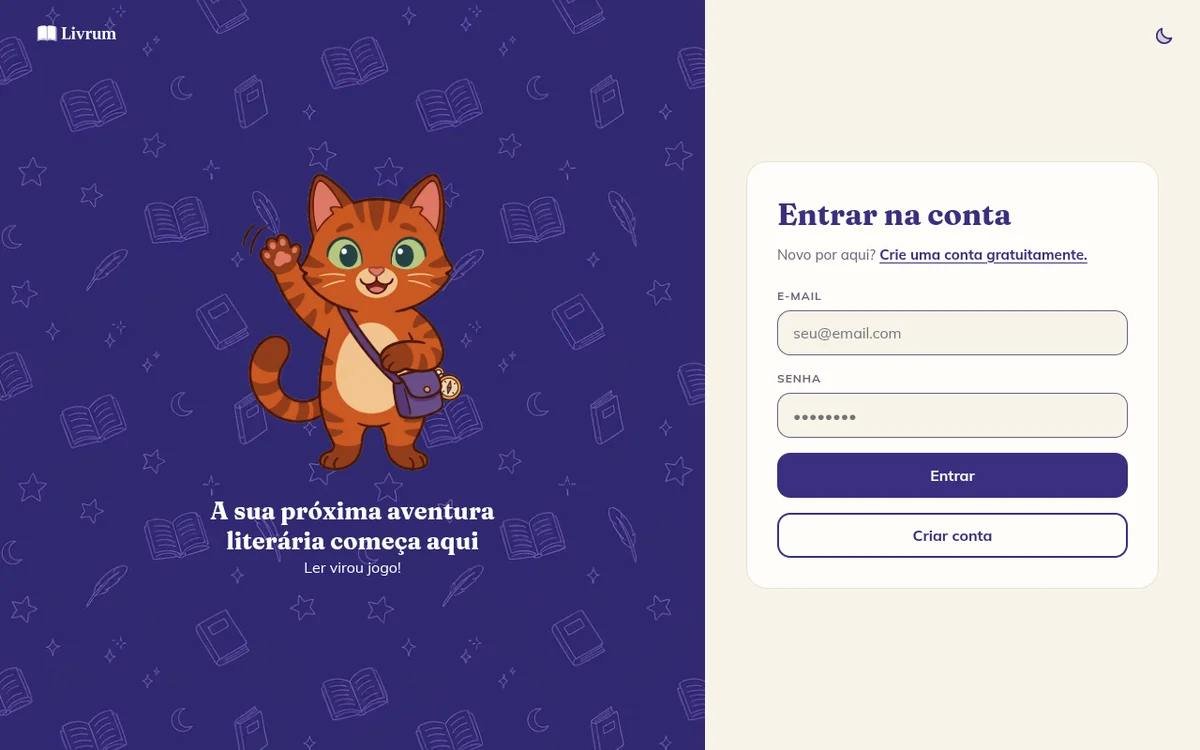
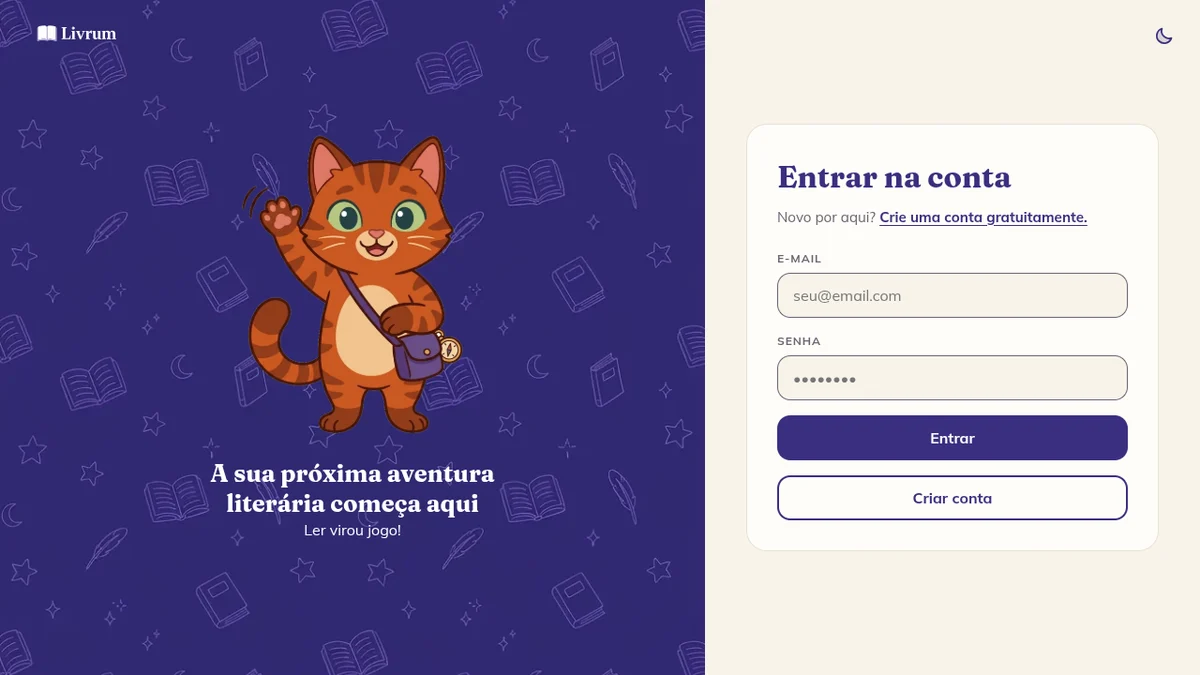
feat: remove arrows, link-only contact labels, three equal project cards

diff --git a/src/styles/global.css b/src/styles/global.css
@@ -167,10 +167,10 @@ h2 { font-size: clamp(30px, 4.2vw, 46px); letter-spacing: -.025em; line-height: 
 .sub { color: var(--muted); max-width: 620px; margin-bottom: 44px; font-size: 17px; }
 
 /* projetos */
-.projects { display: grid; grid-template-columns: 1.35fr 1fr; gap: 20px; }
+.projects { display: grid; grid-template-columns: repeat(3, 1fr); gap: 20px; }
 .pcard { padding: 14px; display: flex; flex-direction: column; }
-.pcard .shot { border-radius: 12px; overflow: hidden; border: 1px solid var(--line); background: #0a0818; aspect-ratio: 16 / 10; position: relative; }
-.pcard .shot img { width: 100%; height: 100%; object-fit: cover; object-position: top; display: block; transition: transform .5s; }
+.pcard .shot { border-radius: 12px; overflow: hidden; border: 1px solid var(--line); background: #0a0818; aspect-ratio: 16 / 9; position: relative; }
+.pcard .shot img { position: absolute; inset: 0; width: 100%; height: 100%; object-fit: contain; object-position: center; display: block; z-index: 1; transition: transform .5s; }
 .pcard:hover .shot img { transform: scale(1.04); }
 .pcard .body { padding: 16px 6px 6px; display: flex; flex-direction: column; gap: 10px; flex: 1; }
 .pcard h3 { font-size: 22px; display: flex; align-items: center; gap: 10px; flex-wrap: wrap; }
@@ -178,21 +178,17 @@ h2 { font-size: clamp(30px, 4.2vw, 46px); letter-spacing: -.025em; line-height: 
 .pcard p { color: var(--muted); font-size: 15px; }
 .pcard .acts { margin-top: auto; display: flex; flex-wrap: wrap; gap: 10px; padding-top: 6px; }
 .pcard .btn { padding: 10px 18px; font-size: 14px; }
-.big { grid-row: span 2; }
-.big .shot { aspect-ratio: auto; flex: 1; min-height: 300px; }
-.big .shot img { position: absolute; inset: 0; }
-.big .body { flex: 0 0 auto; }
 .pcard .shot-fallback {
   position: absolute; inset: 0; display: flex; align-items: center; justify-content: center;
   background: linear-gradient(135deg, #2a1458, #0d0a1f 60%, #4a1269); font-weight: 800; font-size: 26px; letter-spacing: .02em;
 }
 .note-sm { font-size: 13px; color: var(--dim); border-left: 2px solid var(--violet); padding-left: 10px; }
 
+@media (max-width: 900px) {
+  .projects { grid-template-columns: 1fr; }
+}
 @media (max-width: 860px) {
   section { padding: 70px 0; }
-  .projects { grid-template-columns: 1fr; }
-  .big { grid-row: auto; }
-  .big .shot { aspect-ratio: 16 / 10; flex: none; min-height: 0; }
 }
 
 /* sobre */
@@ -233,8 +229,11 @@ footer { padding: 36px 0 44px; color: var(--dim); font-size: 14px; text-align: c
 .trail { position: fixed; inset: 0; pointer-events: none; z-index: 50; }
 @media (prefers-reduced-motion: reduce) { .rv { opacity: 1; transform: none; transition: none; } }
 
-/* imagem inteira com fundo desfocado atrás (destaque) */
-.big .shot::before {
+
+/* imagem de cada projeto: inteira, centralizada, sobre uma cópia desfocada dela mesma */
+.pcard .shot::before {
   content: ""; position: absolute; inset: -20px; background: var(--shot) center / cover; filter: blur(22px) saturate(1.2); opacity: .55;
 }
-.big .shot img { object-fit: contain; object-position: center; z-index: 1; }
+
+/* selo sobre a imagem, igual em todos os cards */
+.shot-badge { position: absolute; top: 10px; left: 10px; z-index: 2; background: rgba(13,10,31,.88); backdrop-filter: blur(6px); }

diff --git a/src/data/content.ts b/src/data/content.ts
@@ -38,8 +38,8 @@ export const links = {
 };
 
 export const contactLabels = {
-  whatsapp: 'WhatsApp (48) 98455-5696',
-  instagram: 'Instagram @bombazaro.sites',
+  whatsapp: 'WhatsApp',
+  instagram: 'Instagram',
 };
 
 export const heroChips = ['React', 'TypeScript', 'Java', 'Spring Boot', 'SQL'];
@@ -55,7 +55,7 @@ export const projects: Project[] = [
     stack: ['React', 'TypeScript', 'Sanity', 'Netlify'],
     image: { src: '/projetos/padaria.webp', alt: "Página inicial do site da Padaria Bombazaro's" },
     actions: [
-      { label: 'Ver site ↗', href: 'https://padariabombazaros.netlify.app', variant: 'main' },
+      { label: 'Ver site', href: 'https://padariabombazaros.netlify.app', variant: 'main' },
       { label: 'Código', href: 'https://github.com/bombazaro/padaria-bombazaros', variant: 'ghost' },
     ],
   },
@@ -65,9 +65,9 @@ export const projects: Project[] = [
     summary:
       'App de contas a pagar que calcula sozinho o que falta pagar e quanto sobra do mês. Funciona 100% offline.',
     stack: ['Expo', 'TypeScript', 'SQLite'],
-    image: { src: '/projetos/fluxus-contas.webp', alt: 'Tela de contas do app Fluxus no modo escuro' },
+    image: { src: '/projetos/fluxus.webp', alt: 'Telas Início e Contas do app Fluxus no modo escuro' },
     actions: [
-      { label: 'Abrir na web ↗', href: 'https://fluxus-financas.netlify.app', variant: 'main' },
+      { label: 'Abrir na web', href: 'https://fluxus-financas.netlify.app', variant: 'main' },
       { label: 'Baixar APK', href: 'https://github.com/bombazaro/fluxus/releases/latest', variant: 'ghost' },
       { label: 'Código', href: 'https://github.com/bombazaro/fluxus', variant: 'ghost' },
     ],
@@ -82,7 +82,7 @@ export const projects: Project[] = [
     stack: ['React', 'Java', 'Python'],
     image: { src: '/projetos/livrum.webp', alt: 'Tela de entrada do Livrum, com o gato mascote e o texto "A sua próxima aventura literária começa aqui"' },
     actions: [
-      { label: 'Ver site ↗', href: 'https://livrum-ifsc1.vercel.app', variant: 'main' },
+      { label: 'Ver site', href: 'https://livrum-ifsc1.vercel.app', variant: 'main' },
       { label: 'Código', href: 'https://github.com/anthyer/livrum', variant: 'ghost' },
     ],
   },

diff --git a/src/components/Projects.test.tsx b/src/components/Projects.test.tsx
@@ -14,18 +14,18 @@ test('renders_three_project_cards_in_order', () => {
   expect(screen.getAllByRole('article')).toHaveLength(3);
 });
 
-test('padaria_card_is_featured_and_has_ver_site_and_codigo', () => {
+test('padaria_card_has_destaque_badge_ver_site_and_codigo', () => {
   render(<Projects />);
   const padaria = card(/Padaria/);
-  expect(padaria).toHaveClass('big');
-  expect(within(padaria).getByRole('link', { name: /Ver site/ })).toHaveAttribute('href', 'https://padariabombazaros.netlify.app');
+  expect(within(padaria).getByText('em destaque')).toBeInTheDocument();
+  expect(within(padaria).getByRole('link', { name: 'Ver site' })).toHaveAttribute('href', 'https://padariabombazaros.netlify.app');
   expect(within(padaria).getByRole('link', { name: 'Código' })).toHaveAttribute('href', 'https://github.com/bombazaro/padaria-bombazaros');
 });
 
 test('fluxus_card_has_three_actions_web_apk_code', () => {
   render(<Projects />);
   const links = within(card('Fluxus')).getAllByRole('link');
-  expect(links.map((l) => l.textContent)).toEqual(['Abrir na web ↗', 'Baixar APK', 'Código']);
+  expect(links.map((l) => l.textContent)).toEqual(['Abrir na web', 'Baixar APK', 'Código']);
 });
 
 test('livrum_card_shows_em_equipe_badge_and_honest_note', () => {
@@ -83,4 +83,16 @@ test('shot_exposes_its_image_as_css_variable_for_the_blurred_backdrop', () => {
   const shot = card(/Padaria/).querySelector('.shot') as HTMLElement;
   expect(shot.getAttribute('style')).toContain('--shot');
   expect(shot.getAttribute('style')).toContain('/projetos/padaria.webp');
+});
+
+test('three_equal_cards_side_by_side_no_featured_layout', () => {
+  const { container } = render(<Projects />);
+  expect(container.querySelector('.big')).toBeNull();
+  const grid = container.querySelector('.projects') as HTMLElement;
+  expect(grid.querySelectorAll('article.pcard')).toHaveLength(3);
+});
+
+test('every_card_has_an_image_frame_with_the_same_class', () => {
+  const { container } = render(<Projects />);
+  expect(container.querySelectorAll('.pcard .shot')).toHaveLength(3);
 });

diff --git a/src/components/ProjectCard.tsx b/src/components/ProjectCard.tsx
@@ -5,17 +5,17 @@ import Chip from './Chip';
 
 export default function ProjectCard({ project }: { project: Project }) {
   const [imageFailed, setImageFailed] = useState(false);
-  const { title, badge, summary, note, stack, image, actions, featured } = project;
+  const { title, badge, summary, note, stack, image, actions } = project;
 
   return (
-    <article className={`glow pcard${featured ? ' big' : ''}`}>
+    <article className="glow pcard">
       <div className="shot" style={image ? ({ '--shot': `url(${image.src})` } as CSSProperties) : undefined}>
         {image && !imageFailed ? (
           <img
             src={image.src}
             alt={image.alt}
             width={1200}
-            height={750}
+            height={675}
             loading="lazy"
             onError={() => setImageFailed(true)}
           />
@@ -24,12 +24,10 @@ export default function ProjectCard({ project }: { project: Project }) {
             {title}
           </div>
         )}
+        {badge && <span className="pill shot-badge">{badge}</span>}
       </div>
       <div className="body">
-        <h3>
-          {title}
-          {badge && <span className="pill">{badge}</span>}
-        </h3>
+        <h3>{title}</h3>
         <p>{summary}</p>
         {note && <div className="note-sm">{note}</div>}
         <div className="chips">

diff --git a/src/App.a11y.test.tsx b/src/App.a11y.test.tsx
@@ -3,7 +3,7 @@ import { axe } from 'vitest-axe';
 import * as matchers from 'vitest-axe/matchers';
 import App from './App';
 import { clearMedia, mockMedia } from './test/media';
-import { DASHES } from './test/dashes';
+import { ARROWS, DASHES } from './test/dashes';
 
 expect.extend(matchers);
 
@@ -48,4 +48,14 @@ test('skip_link_is_the_first_focusable_element', () => {
 test('whole_page_has_no_dash_characters', () => {
   const { container } = render(<App />);
   expect(container.textContent).not.toMatch(DASHES);
+});
+
+test('whole_page_has_no_arrow_characters', () => {
+  const { container } = render(<App />);
+  expect(container.textContent).not.toMatch(ARROWS);
+});
+
+test('page_never_shows_the_phone_number_or_instagram_handle_as_text', () => {
+  const { container } = render(<App />);
+  expect(container.textContent).not.toMatch(/98455|984555696|\(48\)|bombazaro\.sites|@bombazaro/i);
 });

diff --git a/src/data/content.test.ts b/src/data/content.test.ts
@@ -1,5 +1,5 @@
 import { contactLabels, heroChips, links, marqueeItems, projects, site, techGroups, timeline } from './content';
-import { DASHES } from '../test/dashes';
+import { ARROWS, DASHES } from '../test/dashes';
 
 const everything = { site, links, contactLabels, projects, timeline, techGroups, marqueeItems, heroChips };
 
@@ -71,4 +71,12 @@ test('timeline_has_three_entries_in_order_and_skips_apae', () => {
 
 test('tech_groups_are_the_four_expected', () => {
   expect(techGroups.map((g) => g.title)).toEqual(['Programação', 'Banco de dados', 'Ferramentas', 'Pessoal']);
+});
+
+test('no_arrow_characters_in_any_label_or_text', () => {
+  expect(JSON.stringify(everything)).not.toMatch(ARROWS);
+});
+
+test('contact_labels_are_plain_names_without_number_or_handle', () => {
+  expect(contactLabels).toEqual({ whatsapp: 'WhatsApp', instagram: 'Instagram' });
 });

diff --git a/src/components/Contact.test.tsx b/src/components/Contact.test.tsx
@@ -15,15 +15,15 @@ test('contact_has_six_links_with_exact_hrefs', () => {
   ]);
 });
 
-test('whatsapp_is_primary_button_and_shows_formatted_number', () => {
+test('whatsapp_is_primary_button_and_hides_the_number_in_the_label', () => {
   render(<Contact />);
-  const wa = screen.getByRole('link', { name: 'WhatsApp (48) 98455-5696' });
+  const wa = screen.getByRole('link', { name: 'WhatsApp' });
   expect(wa).toHaveClass('btn-main');
 });
 
-test('instagram_label_shows_the_handle', () => {
+test('instagram_label_is_just_the_name', () => {
   render(<Contact />);
-  expect(screen.getByRole('link', { name: 'Instagram @bombazaro.sites' })).toBeInTheDocument();
+  expect(screen.getByRole('link', { name: 'Instagram' })).toBeInTheDocument();
 });
 
 test('external_contact_links_open_in_new_tab', () => {

diff --git a/src/components/Hero.tsx b/src/components/Hero.tsx
@@ -32,7 +32,7 @@ export default function Hero() {
           <Reveal delay={160}>
           <div className="cta">
             <Button href={links.instagram} variant="main" external>
-              Quero um site para meu negócio →
+              Quero um site para meu negócio
             </Button>
             <Button href={links.cv} variant="ghost" external>
               Currículo

diff --git a/src/components/Projects.tsx b/src/components/Projects.tsx
@@ -15,7 +15,7 @@ export default function Projects() {
         </Reveal>
         <div className="projects">
           {projects.map((project, i) => (
-            <Reveal key={project.id} className={project.featured ? 'big' : ''} delay={i * 90}>
+            <Reveal key={project.id} delay={i * 90}>
               <ProjectCard project={project} />
             </Reveal>
           ))}

diff --git a/src/test/dashes.ts b/src/test/dashes.ts
@@ -1,2 +1,4 @@
 // Matches the long dash characters the site must never contain (written as char codes on purpose).
 export const DASHES = new RegExp(`[${String.fromCharCode(0x2013, 0x2014)}]`);
+// Matches arrow characters (U+2190 to U+21FF), which the site must not show.
+export const ARROWS = new RegExp(`[${String.fromCharCode(0x2190)}-${String.fromCharCode(0x21ff)}]`);

diff --git a/src/meta.test.ts b/src/meta.test.ts
@@ -31,7 +31,7 @@ test('public_assets_exist', () => {
     'meu-desenho-sem-fundo.webp',
     'projetos/padaria.webp',
     'projetos/fluxus-inicio.webp',
-    'projetos/fluxus-contas.webp',
+    'projetos/fluxus.webp',
     'projetos/livrum.webp',
   ].forEach((file) => expect(existsSync(`public/${file}`), file).toBe(true));
 });
